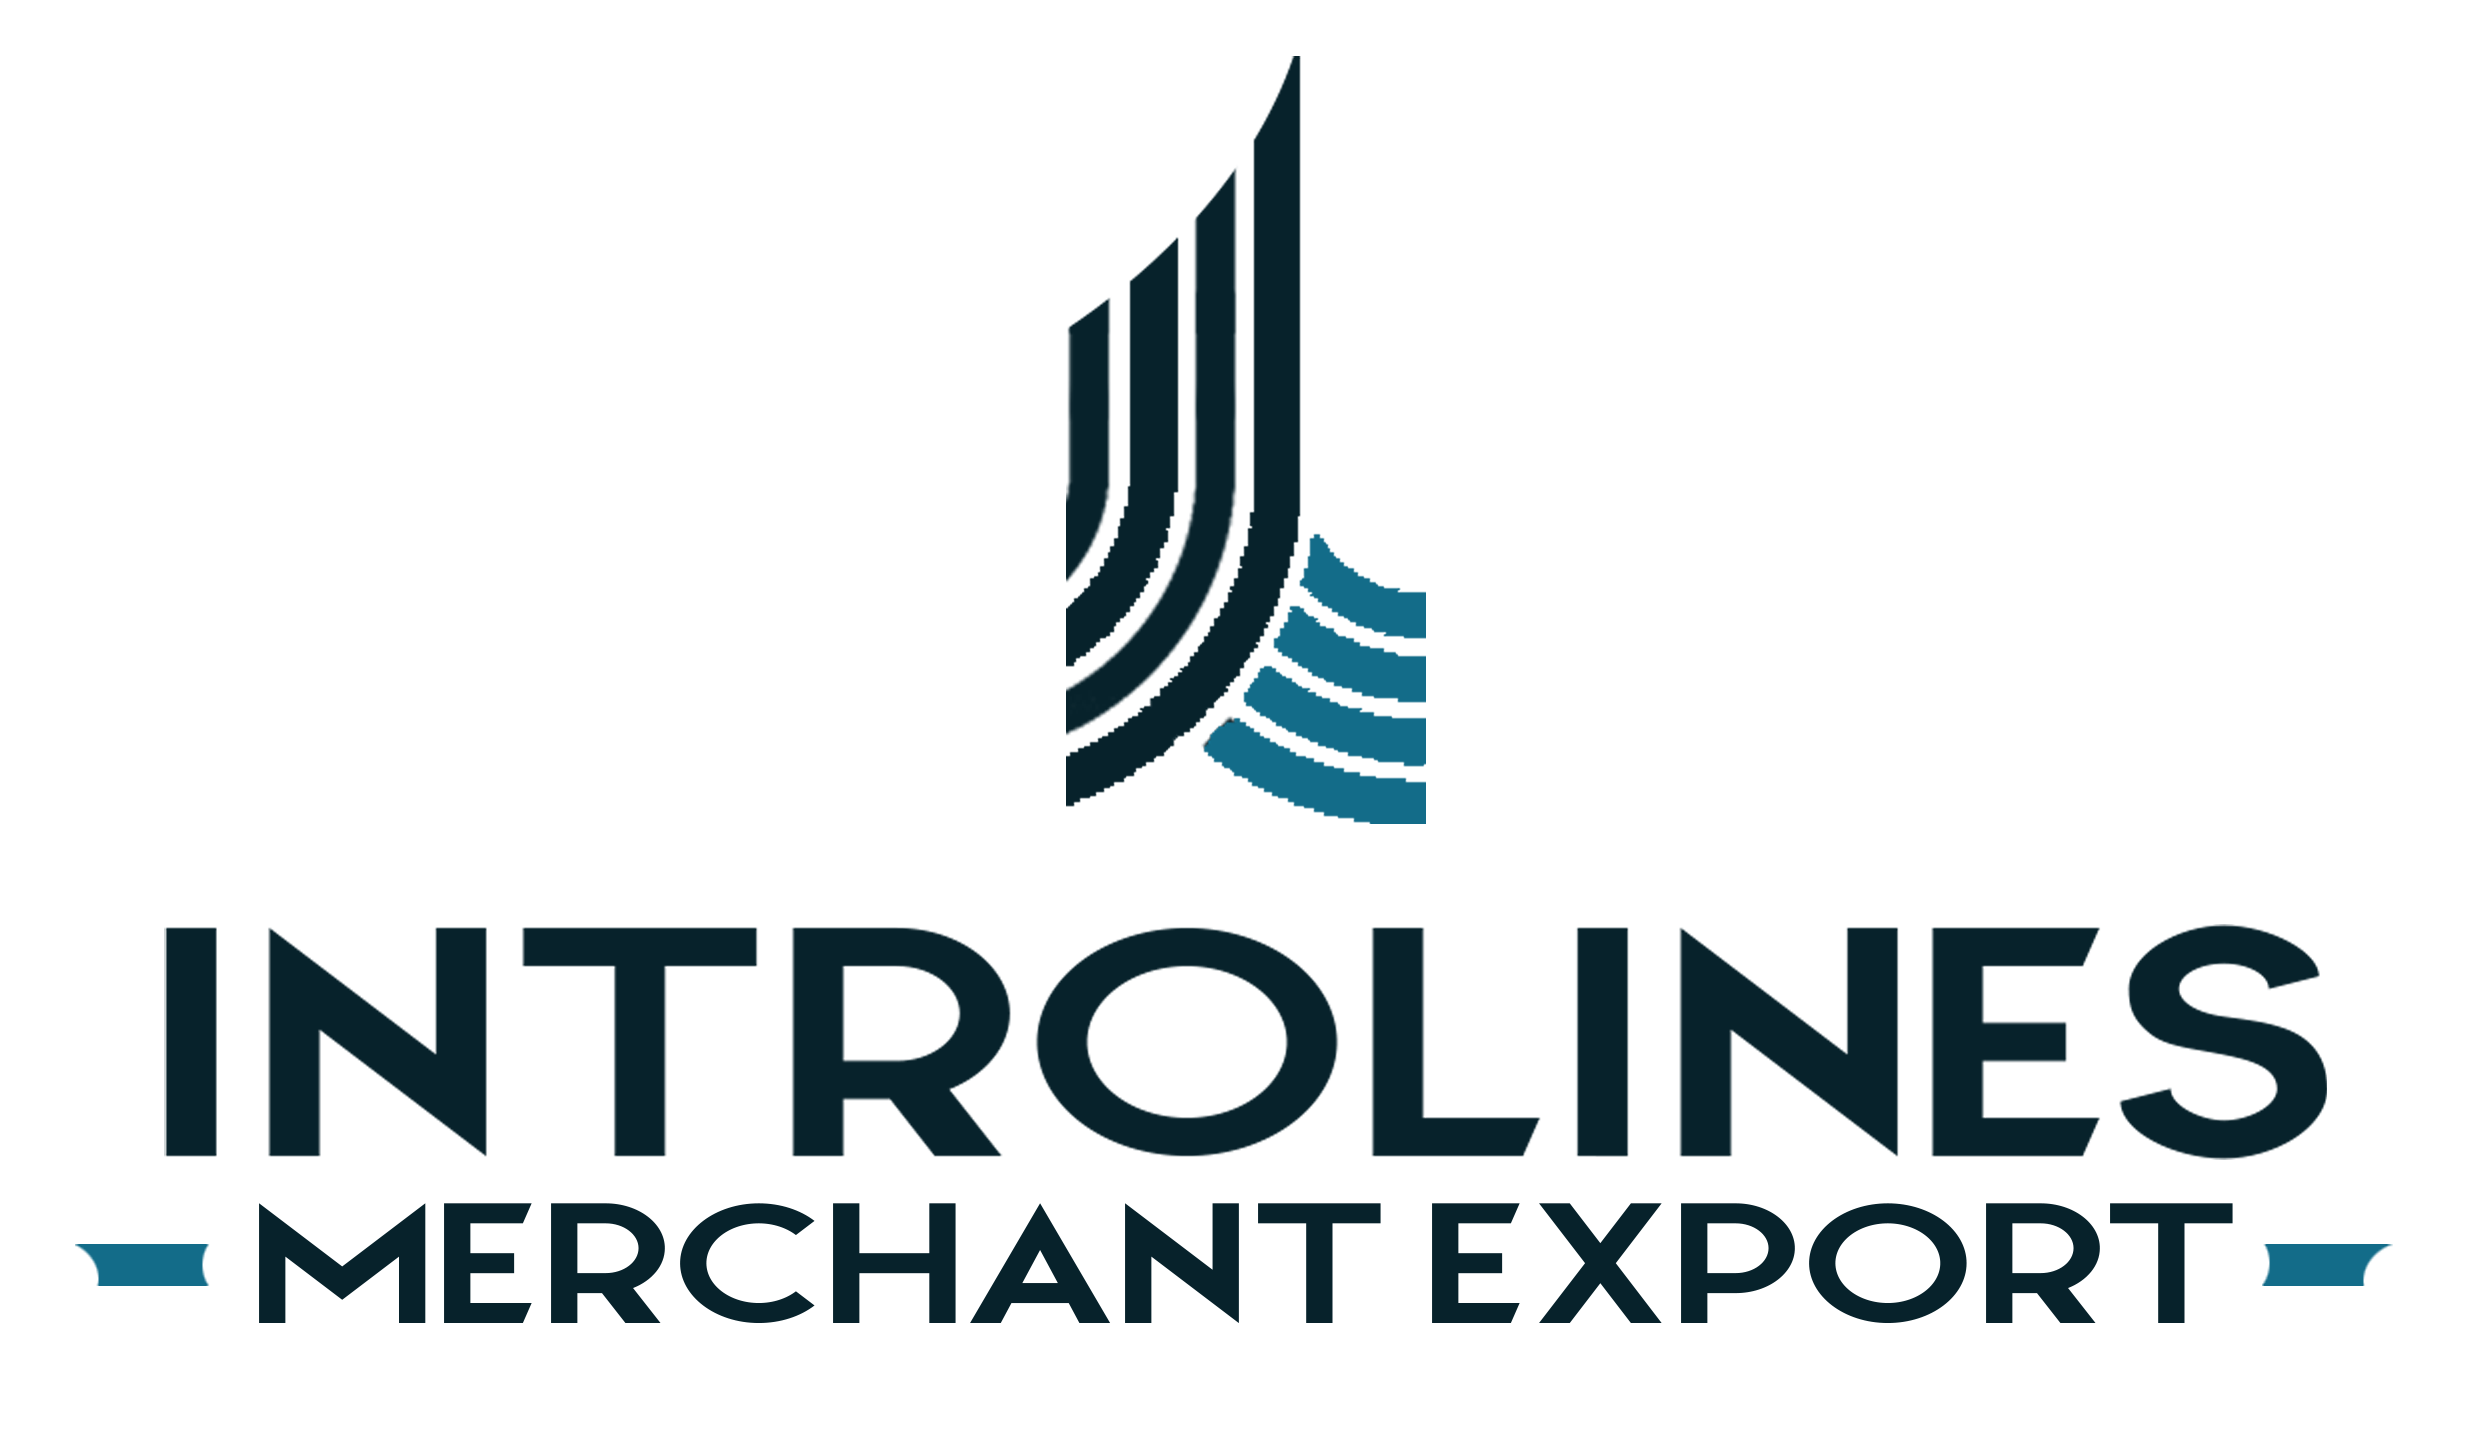
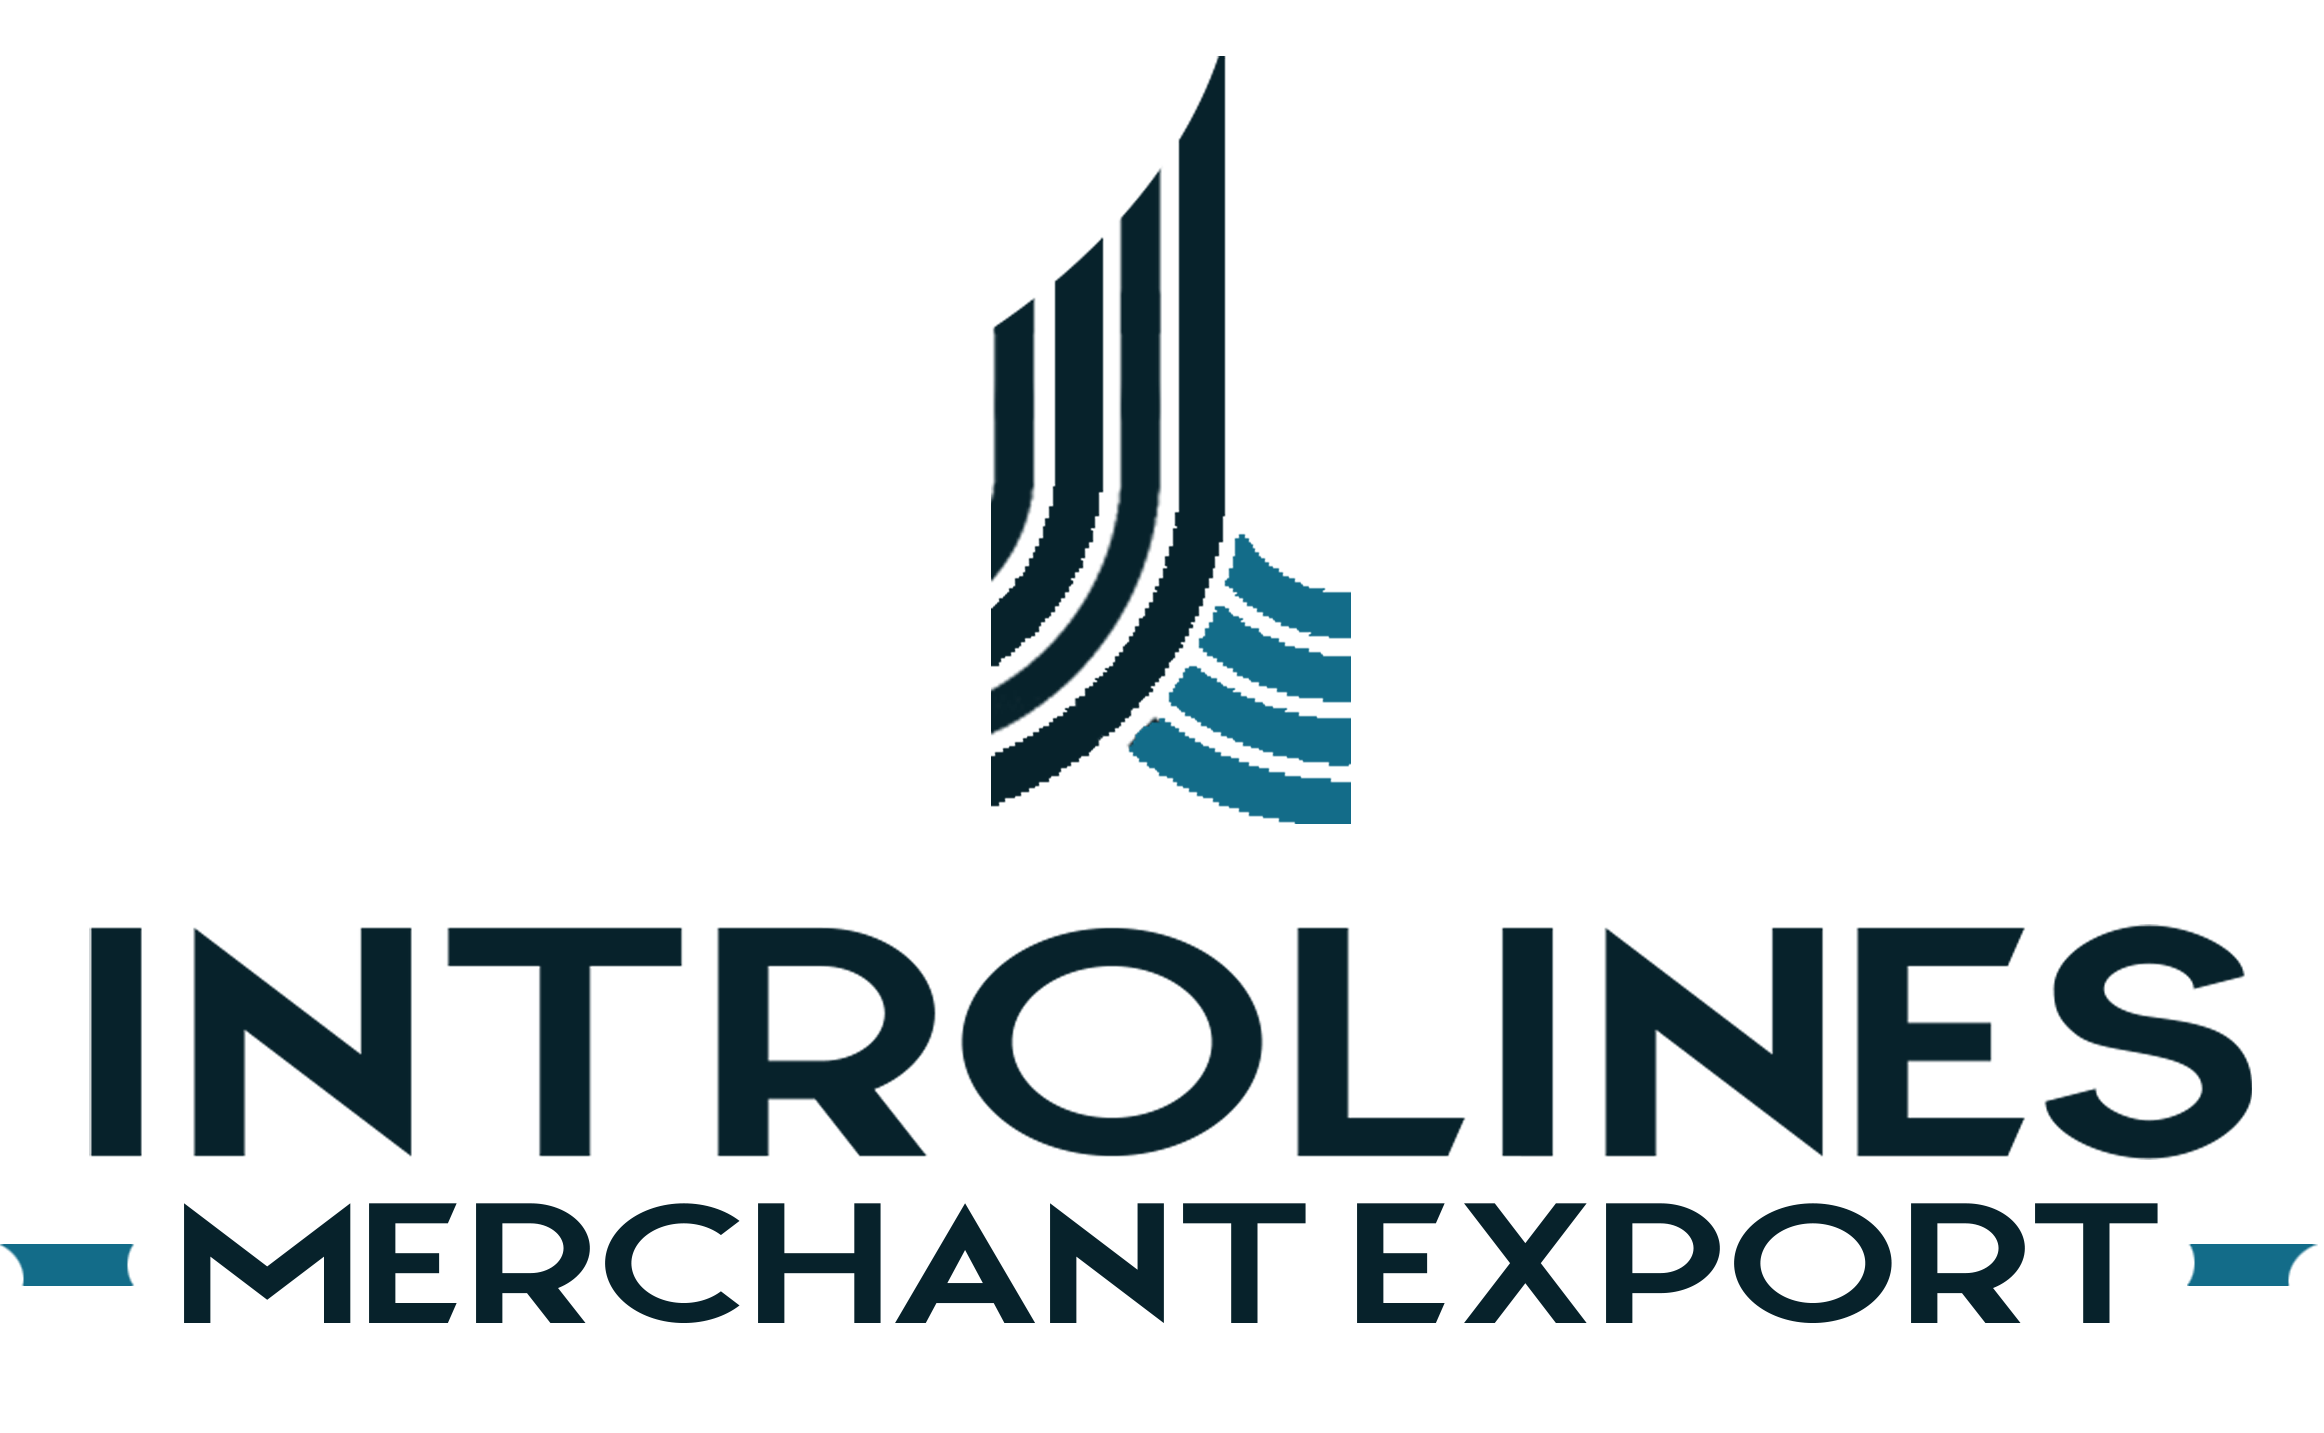
updated

diff --git a/src/components/common/Header.jsx b/src/components/common/Header.jsx
@@ -54,11 +54,11 @@ const Header = ({ className, ...props }) => {
           {/* Logo Section */}
           <div className="flex justify-between items-center w-full lg:w-[56%]">
             {/* Logo Image */}
-            <div className="flex-shrink-0 w-[220px] sm:w-[180px] lg:w-[164px]">
+            <div className="flex-shrink-0 w-[150px] sm:w-[150px] lg:w-[164px]">
               <img 
                 src="/introline.png" 
                 alt="Introline Logo"
-                className="w-full h-[20px] sm:h-[16px] lg:h-[18px] object-contain"
+                className="w-full h-[70px] sm:h-[50px] lg:h-[40px] object-contain"
               />
             </div>
 
